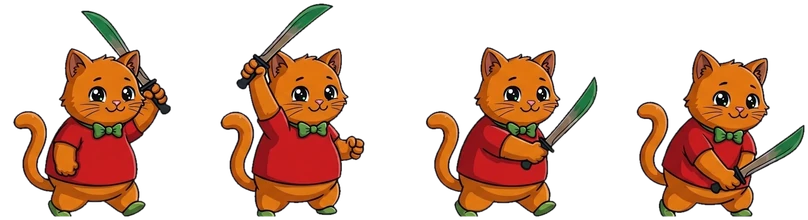
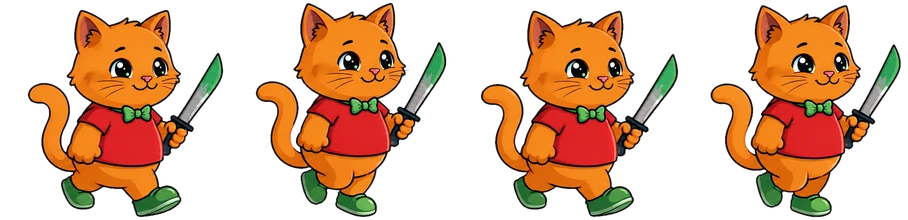
Build 48: 고양이 검사 걷기 4컷 (새 시트)
Claude-Session: https://claude.ai/code/session_01TAGw7xMGQHjxVZsWyfjSay

diff --git a/index.html b/index.html
@@ -212,7 +212,7 @@ h2{margin:0 0 14px;font-size:clamp(30px,9vw,48px);color:#ffd23f;text-shadow:0 3p
 
 <script>
 'use strict';
-const BUILD = 47;
+const BUILD = 48;
 const BOSS_INTERVAL = 180;      // 보스 등장 간격(초)
 const WAVE_INTERVAL = 60;       // 대규모 몰이 이벤트 간격(초)
 const MAX_ENEMIES = 220;
@@ -3241,7 +3241,7 @@ const SHEETS = {
   ally_bomber_toss:  { n: 4, ax: 0.4409, ay: 0.9856, body: 0.7957 },
   ally_shield_bash:  { n: 4, ax: 0.4323, ay: 0.984,  body: 0.9626 },
   ally_sword_slash:  { n: 4, ax: 0.4377, ay: 0.9817, body: 0.7682 },   // 칼이 낮은 3번 칸의 귀~발끝 키
-  ally_sword_walk:   { n: 4, ax: 0.4478, ay: 0.986,  body: 0.768, seq: [2, 3] },
+  ally_sword_walk:   { n: 4, ax: 0.4962, ay: 0.9881, body: 0.9662, seq: [0, 1, 2, 3] },   // Build 48: 새 4컷 (간격 넓은 시트)
   ally_archer_walk:  { n: 4, ax: 0.5455, ay: 0.9861, body: 0.943, seq: [0, 1, 2, 3] },   // 4칸 평균 귀~발끝 키
   ally_bomber_walk:  { n: 4, ax: 0.4103, ay: 0.9861, body: 0.941, seq: [0, 1, 2, 3] },
   ally_shield_walk:  { n: 4, ax: 0.3943, ay: 0.9859, body: 0.937, seq: [0, 1, 2, 3] },   // 1·2번 칸은 칼을 치켜들어 빼고, 칼이 낮은 3·4번 칸으로 걷기

diff --git a/README.md b/README.md
@@ -4,7 +4,7 @@
 
 막대 영웅 서바이벌 게임 — 아빠와 아들이 함께 만드는 HTML5 게임.
 
-- **현재 빌드: Build 47** (화면 오른쪽 아래에도 표시)
+- **현재 빌드: Build 48** (화면 오른쪽 아래에도 표시)
 - 플레이: https://leetiger12a-spec.github.io/Stickhero/ (GitHub Pages를 켠 뒤)
 
 ## 그림 제작 규칙 (제미나이)
@@ -16,6 +16,11 @@
 ## 조작
 - 📱 폰: 화면 아무 곳이나 끌면 가상 조이스틱으로 이동, 공격은 자동
 - 💻 PC: WASD / 방향키 이동, P·Esc 일시정지, 레벨업 카드는 1·2·3 키
+
+## Build 48 내용 — 고양이 검사 걷기 4컷
+- 제미나이 새 걷기 시트 2장 중 걸음 폭이 크고 테두리가 깨끗한 첫 번째 사용 (**1983×793**) → `python3 tools/sheet.py art/ally_sword_walk_src.png ally_sword_walk 220 n=4`
+- 걷기 재생 **2컷 → 4컷**, 다른 동료와 같은 크기·발끝 위치
+- 예전 시트는 art/ally_sword_walk_v1_src.png, 두 번째 후보는 art/ally_sword_walk_v3b_src.png로 보관
 
 ## Build 47 내용 — 🏅 업적 · 칭호
 - 업적 **19개** (게임오버·날짜와 상관없이 영원히): 첫 망루 · 첫 보스 · 진지 1/10 · 적 1천/1만 · 특수 적 6종 · 마을 Lv3 · 돌 성벽 Lv7 · 동료 Lv5 · 동료 5명 · 탑 10/25층 · 7일째 · 퀘스트 5일 · 보스 6종 · 별 30 · 보스 30 · 최종 보스
